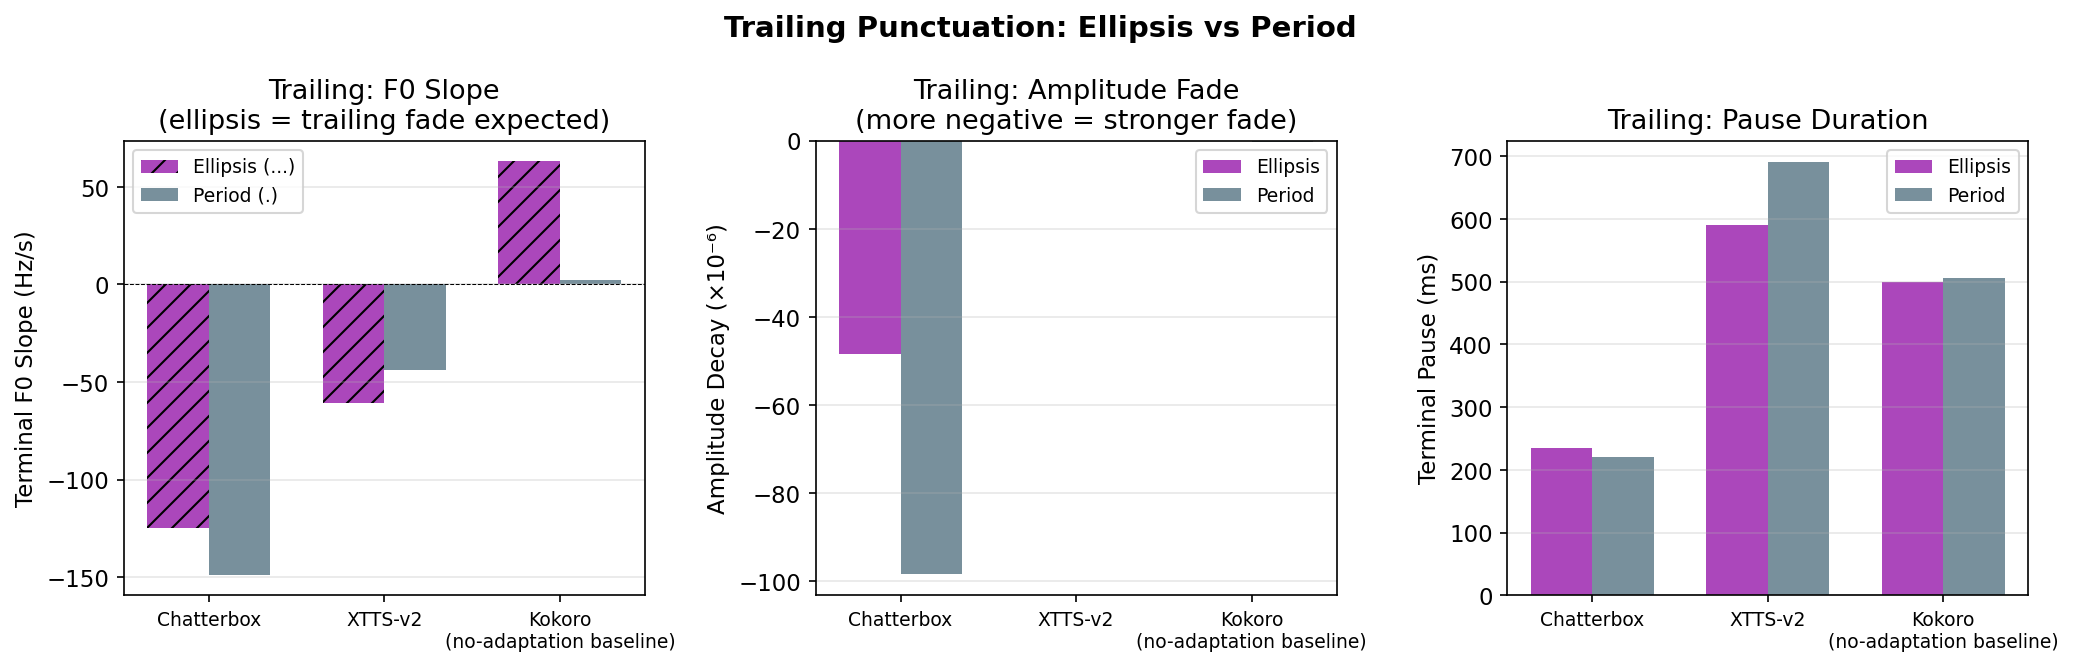
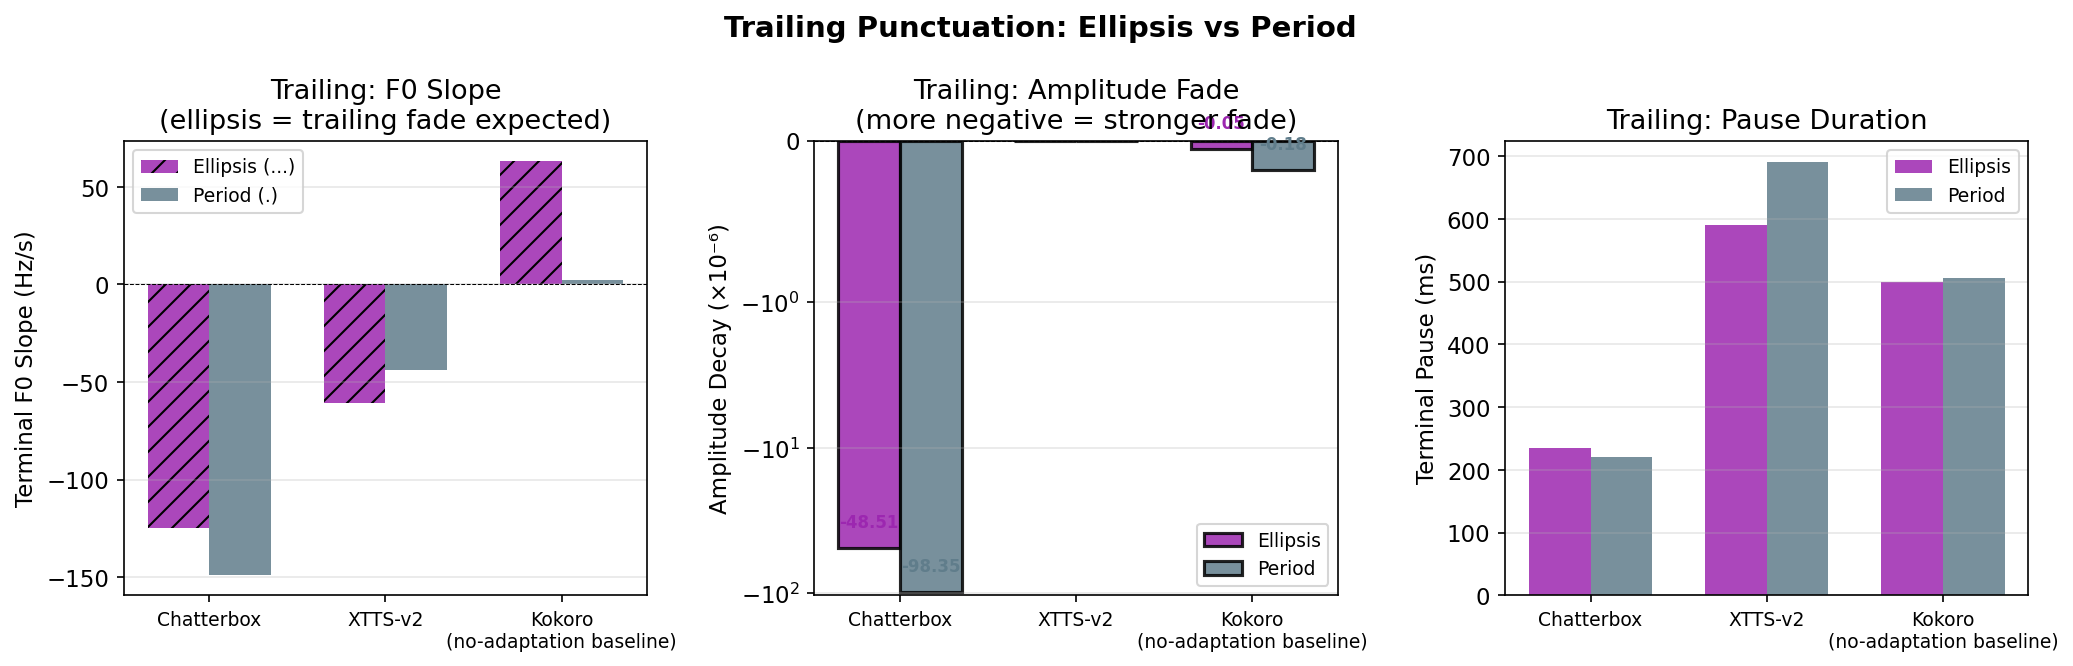
_5: fix trailing amplitude decay — use symlog scale for bars spanning 4 orders of magnitude

diff --git a/_5-punctuation-sensitivity/scripts/plot_figures.py b/_5-punctuation-sensitivity/scripts/plot_figures.py
@@ -167,23 +167,30 @@ def fig3_trailing(data):
     ax.axhline(y=0, color="black", linewidth=0.5, linestyle="--")
     ax.grid(axis="y", alpha=0.3)
 
-    # Amplitude decay
+    # Amplitude decay — values span 5 orders of magnitude (1e-5 to 0)
+    # Use symlog scale: linear near zero, log far from zero.
     ax2 = axes[1]
-    for j, (punct, label) in enumerate([("ellipsis", "Ellipsis"), ("period", "Period")]):
+    for j, (punct, label, color) in enumerate([("ellipsis", "Ellipsis", "#9C27B0"), ("period", "Period", "#607D8B")]):
         means = []
         for model in MODEL_ORDER:
             t_items = [r for r in data[model] if r["category"] == "trailing" and r["punct_type"] == punct]
             decays = [safe_float(r["amplitude_decay_300ms"]) for r in t_items]
-            # Keep zeros — they mean "no fade". Filter only None.
             decays = [d for d in decays if d is not None]
-            means.append(np.mean(decays) * 1e6 if decays else 0)  # scale to micro-units
-        ax2.bar(x + j * width, means, width, label=label,
-                color=["#9C27B0", "#607D8B"][j], alpha=0.85)
+            means.append(np.mean(decays) * 1e6 if decays else 0)
+        bars = ax2.bar(x + j * width, means, width, label=label,
+                       color=color, alpha=0.85, linewidth=1.5, edgecolor="black")
+        for bi, (bar, val) in enumerate(zip(bars, means)):
+            bx = bar.get_x() + bar.get_width() / 2
+            ax2.annotate(f"{val:.2f}", (bx, val if val != 0 else 1),
+                         xytext=(0, 10 if val <= 0 else -14),
+                         textcoords="offset points", fontsize=8, ha="center", color=color, fontweight="bold")
     ax2.set_xticks(x + width/2)
     ax2.set_xticklabels([MODEL_LABELS[m] for m in MODEL_ORDER], fontsize=9)
     ax2.set_ylabel("Amplitude Decay (×10⁻⁶)")
     ax2.set_title("Trailing: Amplitude Fade\n(more negative = stronger fade)")
     ax2.legend(fontsize=9)
+    ax2.axhline(y=0, color="black", linewidth=0.5, linestyle="--")
+    ax2.set_yscale("symlog", linthresh=1)
     ax2.grid(axis="y", alpha=0.3)
 
     # Pause duration comparison